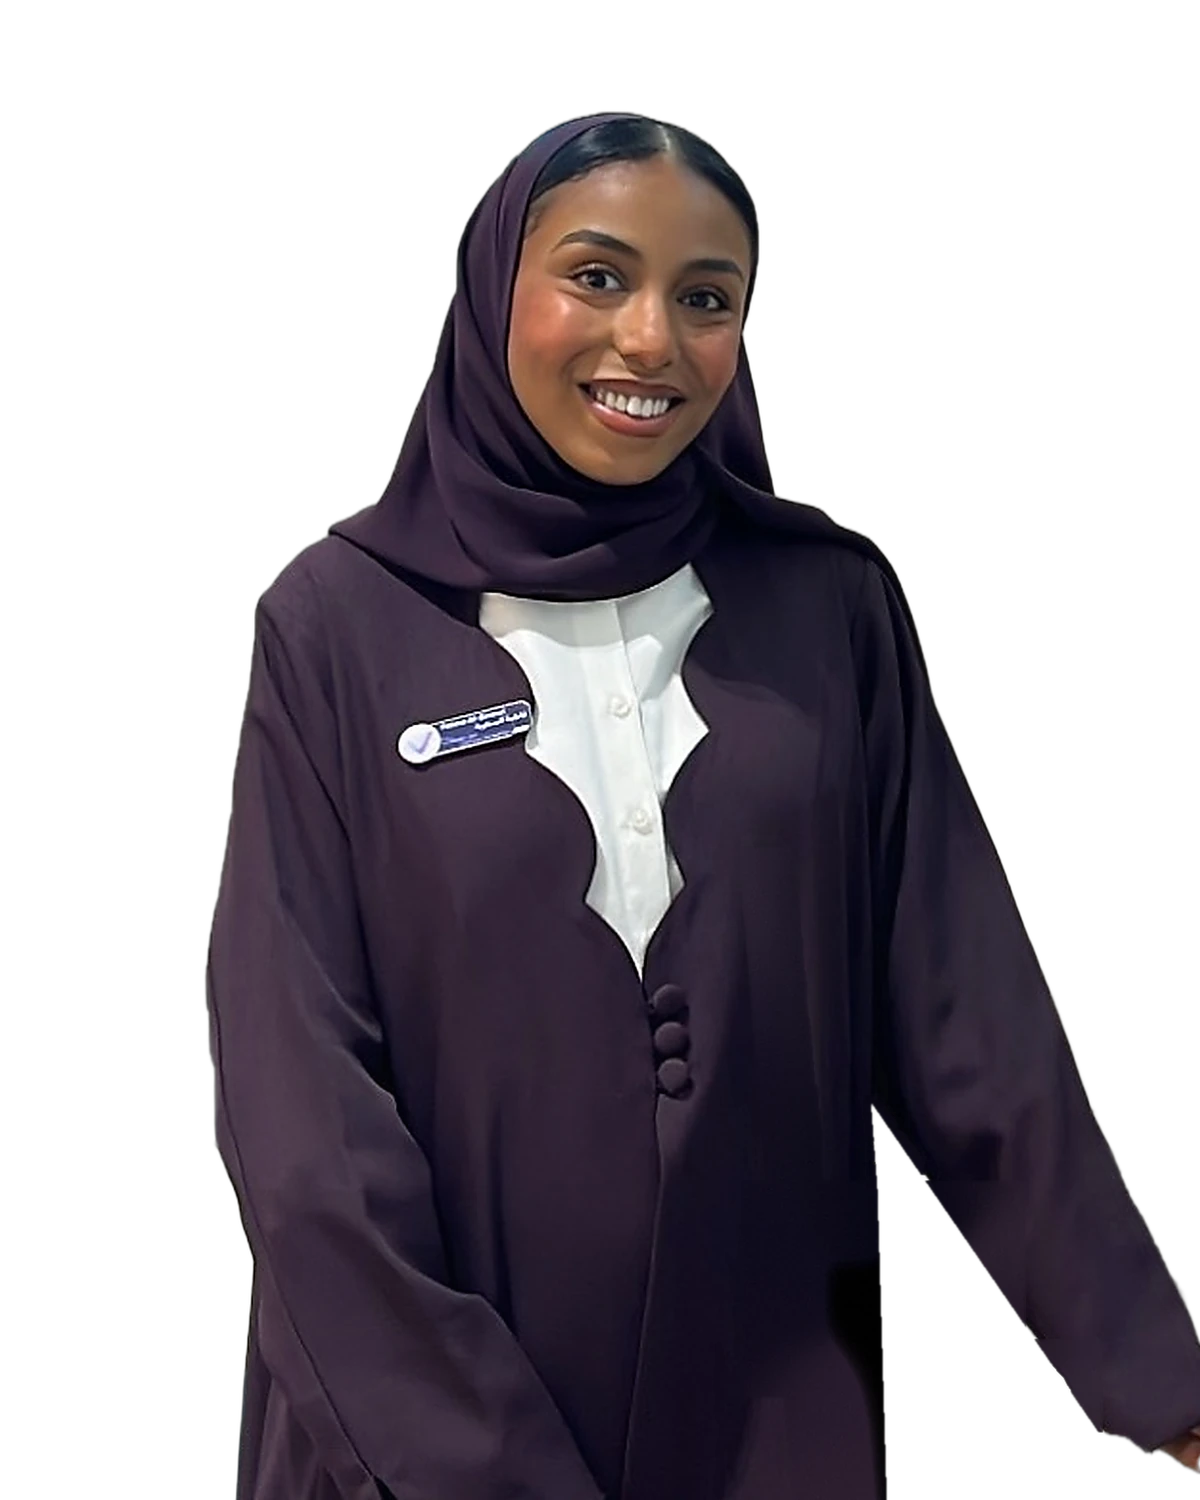
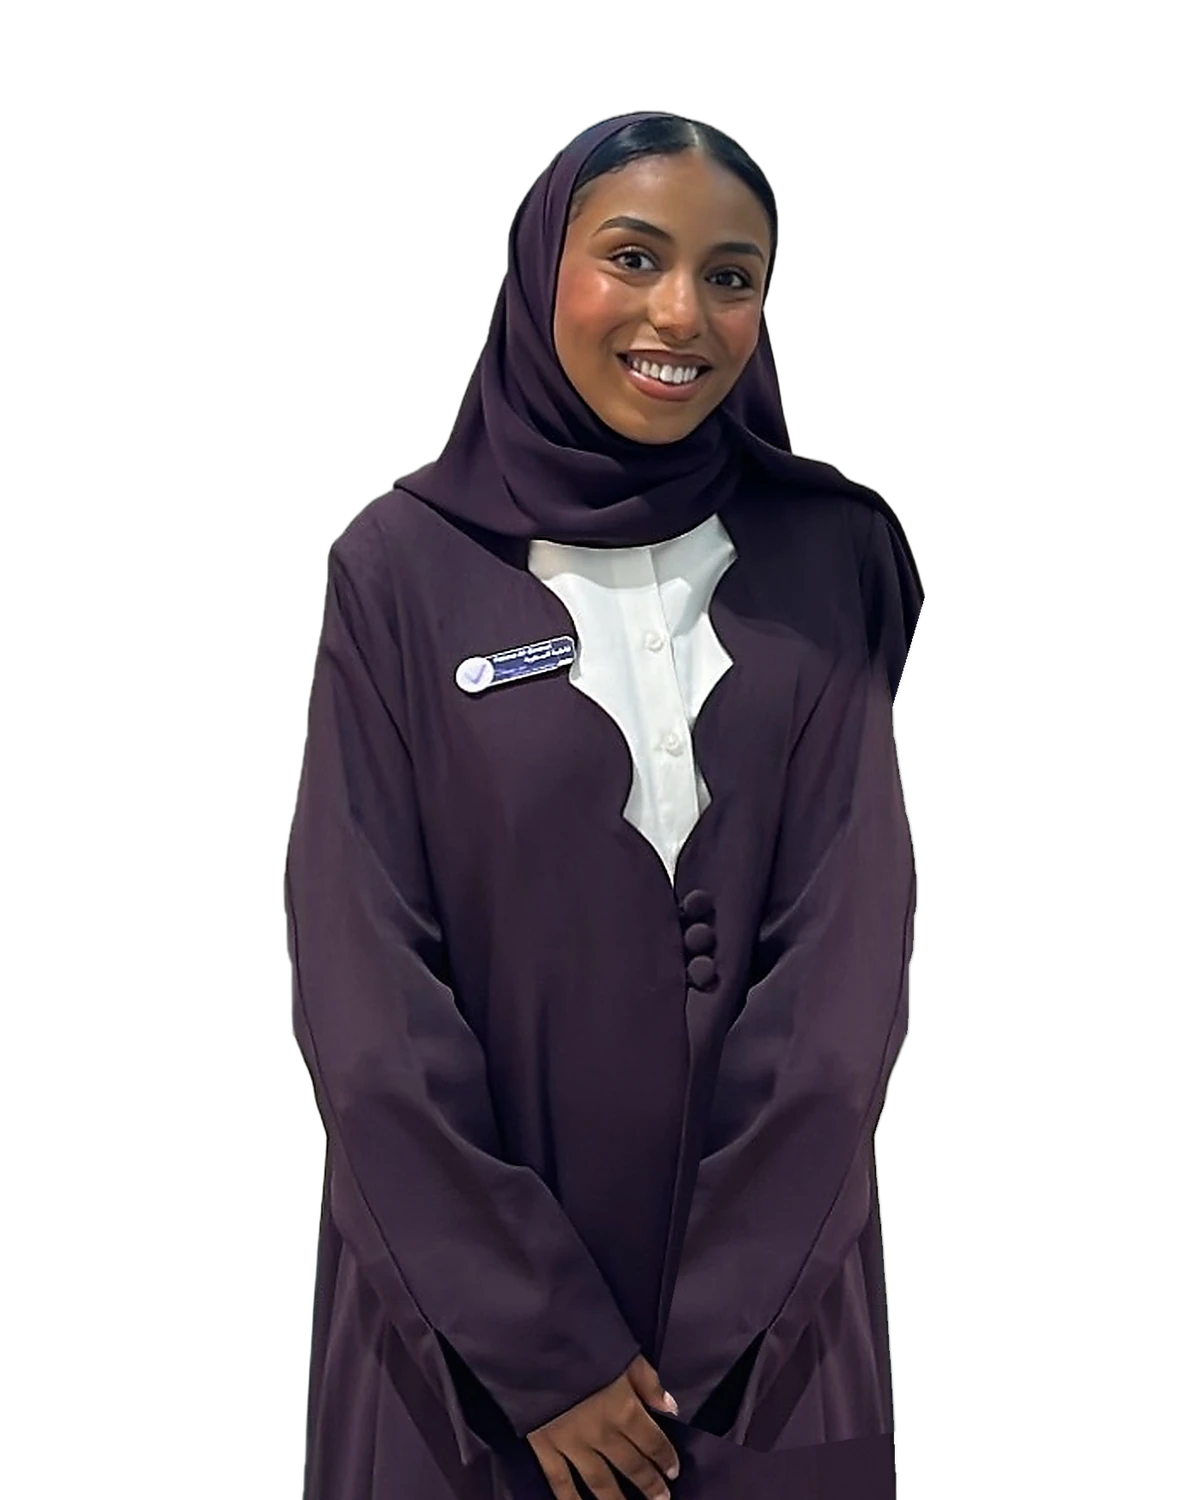
Fatma's photo with both arms down by her sides
Claude-Session: https://claude.ai/code/session_01UqYfgUVQ71Z2mj6btitSC8

Changed region(s): [[0.1542, 0.0613, 1.0, 1.0]]

diff --git a/src/content/team.ts b/src/content/team.ts
@@ -9,7 +9,7 @@ export type Member = {
 }
 
 export const TEAM: Member[] = [
-  { id: 'fatma', photo: '/team/fatma.webp?v=8', hd: true },
+  { id: 'fatma', photo: '/team/fatma.webp?v=9', hd: true },
   { id: 'anaum', photo: '/team/anaum.webp' },
   { id: 'anas', photo: '/team/anas.webp?v=3' },
   { id: 'ibtisam', photo: '/team/ibtisam.webp' },
